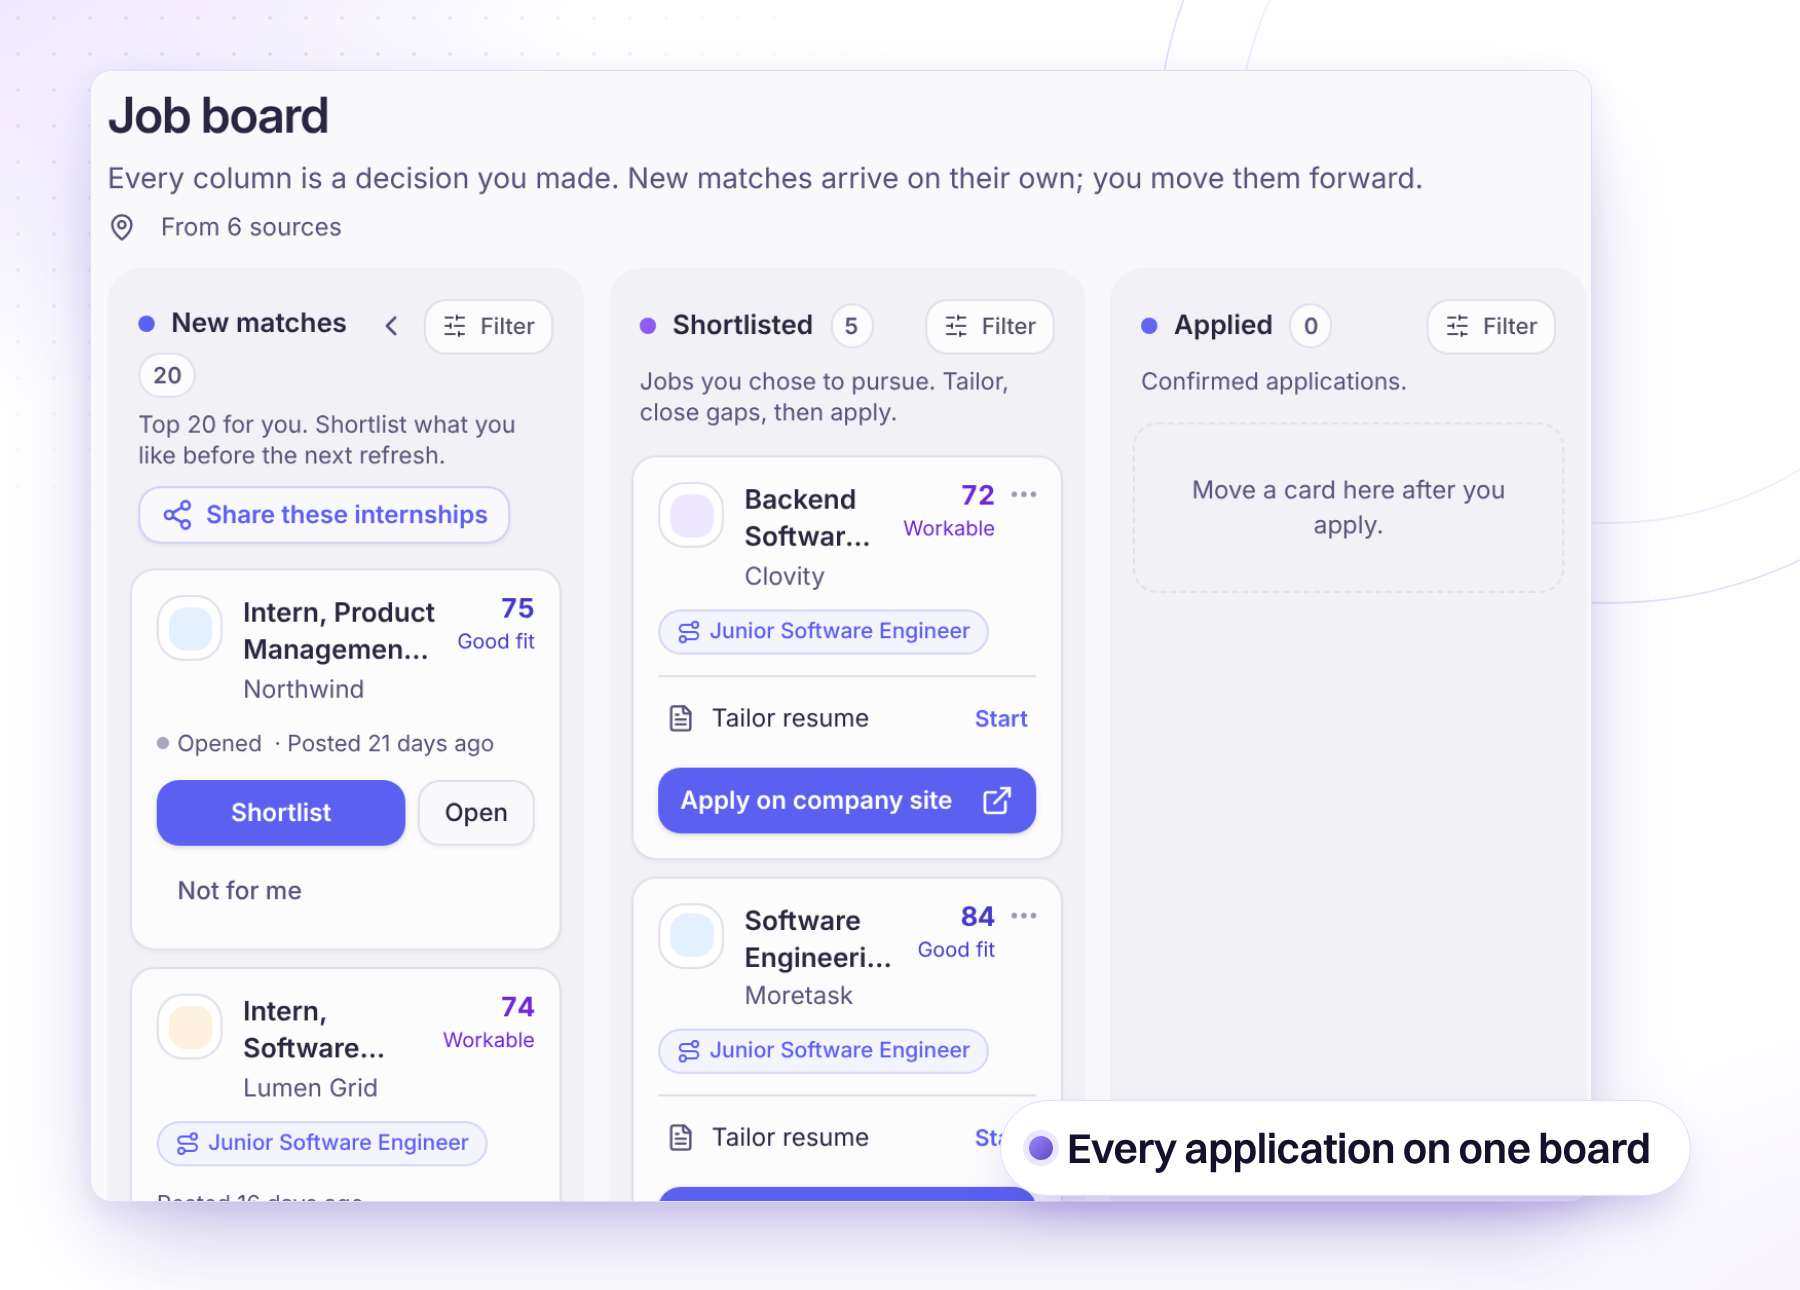
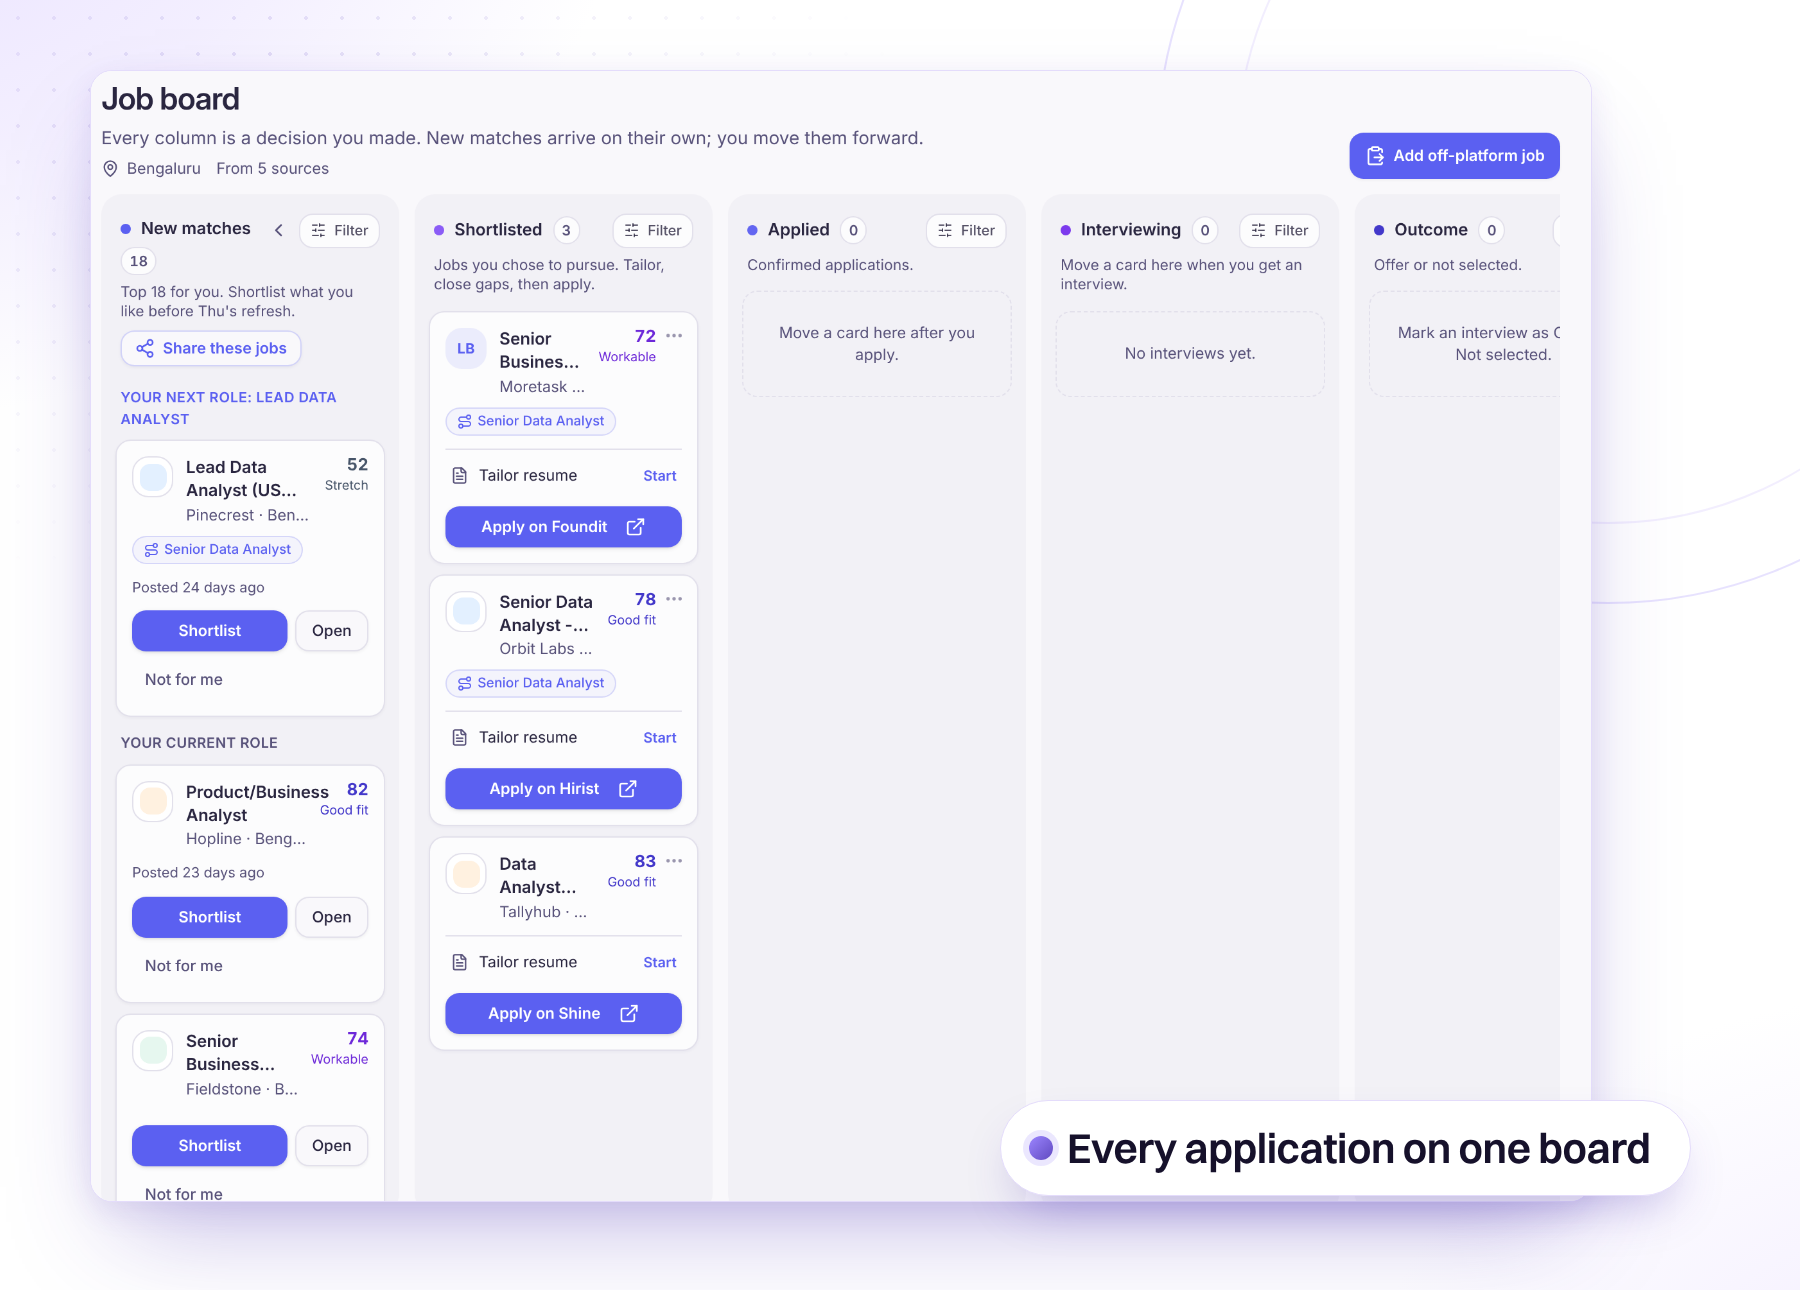
screenshots: a mix of goals across the site, no review card in the goal frames
- New-job and grow dashboards recaptured after answering the review question,
  so the Lumen Grid review card is gone from both
- /jobs, home jobs section, job match, tailoring, rewrite: experienced Data
  Analyst test user; career roadmap, benchmarking, learning sprints,
  progression: Senior Data Analyst growing in role
- Internship versions kept for Internshala compare and alternating role and
  in-demand skill pages (src/lib/shots.ts)
- Hero example, score loop example and /jobs headline no longer
  internship-only

Claude-Session: https://claude.ai/code/session_01GWged76NBtT9ubc9fg8THV

diff --git a/src/app/skills/[role]/page.tsx b/src/app/skills/[role]/page.tsx
@@ -18,6 +18,7 @@ import SiteFooter from "@/components/SiteFooter";
 import SiteHeader from "@/components/SiteHeader";
 import { campaignFor } from "@/lib/cta";
 import { LIVE_ROLES, getRole } from '@/lib/roles';
+import { matchShotFor } from '@/lib/shots';
 
 const SITE = 'https://www.skilldrift.ai';
 export const dynamicParams = false;
@@ -89,6 +90,7 @@ export default async function RoleSkillsPage({ params }: { params: Promise<{ rol
   const url = `${SITE}/skills/${r.slug}`;
   const campaign = campaignFor(`/skills/${r.slug}`);
   const n = r.groups.length;
+  const shot = matchShotFor(LIVE_ROLES.findIndex((x) => x.slug === r.slug));
 
   const ld = [
     { '@context': 'https://schema.org', '@type': 'WebPage', name: r.title, description: r.description, url, isPartOf: { '@type': 'WebSite', name: 'SkillDrift', url: SITE }, inLanguage: 'en' },
@@ -140,7 +142,7 @@ export default async function RoleSkillsPage({ params }: { params: Promise<{ rol
             See how a screening system reads your resume with the <Link href="/ats-score-checker" style={LINK}>ATS score checker</Link>, then turn the gaps into a plan with a <Link href="/career-roadmap" style={LINK}>career roadmap</Link>.
           </p>
                   <div style={{ marginTop: 44, maxWidth: 980, borderRadius: 22, overflow: 'hidden', border: '1px solid var(--line)', boxShadow: '0 30px 70px -20px rgba(76,52,180,.28)' }}>
-            <ShotPicture desktop="/assets/shots/job-match-analysis.png" mobile="/assets/shots/m-job-match-analysis.png" alt="A real job scored 75 out of 100 in SkillDrift, with the skills the person already has and the ones to close" sizes="(max-width: 760px) 100vw, 980px" />
+            <ShotPicture desktop={shot.desktop} mobile={shot.mobile} alt={shot.alt} sizes="(max-width: 760px) 100vw, 980px" />
           </div>
           <p style={{ marginTop: 18, fontSize: 15, color: 'var(--tx2)' }}>What you see after the upload: each {r.role} job scored out of 100, the skills you already show, and the ones to close, each with a roadmap.</p>
           <WhySkillDrift role={r.role} />

diff --git a/src/components/ProductShowcase.tsx b/src/components/ProductShowcase.tsx
@@ -24,18 +24,18 @@ const goals = [
   {
     tab: "A new job or field",
     intent: "Move to a new job",
-    copy: "Jobs in your field scored out of 100, the best one to act on today, and a plan that keeps your search moving. It already asks when your next review is, so it can help you there too.",
+    copy: "Jobs in your field scored out of 100, the best one to act on today, and the steps that get you there: tailor your resume to the job, check each requirement before you apply, practise the interview.",
     desktop: "/assets/shots/home-product-newjob.png",
     mobile: "/assets/shots/m-home-product-newjob.png",
-    alt: "The SkillDrift dashboard for a new job in your field: a Data Analyst role scored 70 out of 100 as the best move today, jobs in the current role scored out of 100, and the plan for today",
+    alt: "The SkillDrift dashboard for a new job in your field: a Data Analyst role scored 70 out of 100 as the best move today, more jobs in the same role scored out of 100, and the steps to tailor, check and practise",
   },
   {
     tab: "Grow where I am",
     intent: "Get promoted where I am",
-    copy: "Your strength in the role you have, the step you are on, and the one gap that moves your readiness most. Each roadmap shows how much it adds before you start, and your review is on the plan.",
+    copy: "Your strength in the role you have and the one gap that moves your readiness most, with what each roadmap adds before you start. Your next role is already on the plan for when you are ready.",
     desktop: "/assets/shots/home-product-grow.png",
     mobile: "/assets/shots/m-home-product-grow.png",
-    alt: "The SkillDrift dashboard for growing in your current role: 53% strength as a Senior Data Analyst, the top gap to close, and a plan that includes the next review",
+    alt: "The SkillDrift dashboard for growing in your current role: 53% strength as a Senior Data Analyst, the top gap that adds 13% readiness, and Lead Data Analyst as the next role on the plan",
   },
 ];
 

diff --git a/src/app/skills/in-demand/[slug]/page.tsx b/src/app/skills/in-demand/[slug]/page.tsx
@@ -18,6 +18,7 @@ import ShotPicture from "@/components/ShotPicture";
 import SiteFooter from "@/components/SiteFooter";
 import SiteHeader from "@/components/SiteHeader";
 import { campaignFor } from "@/lib/cta";
+import { matchShotFor } from '@/lib/shots';
 import { DEMAND_PAGES, SNAPSHOT_DATE, SNAPSHOT_LABEL, getDemandPage, sameIndustry, sameRole } from '@/lib/skillsDemand';
 
 const SITE = 'https://www.skilldrift.ai';
@@ -66,6 +67,7 @@ export default async function SkillsDemandPage({ params }: { params: Promise<{ s
   const url = `${SITE}/skills/in-demand/${p.slug}`;
   const campaign = campaignFor(`/skills/in-demand/${p.slug}`);
   const top = p.skills[0];
+  const shot = matchShotFor(DEMAND_PAGES.findIndex((x) => x.slug === p.slug));
   const others = sameRole(p).slice(0, 6);
   const neighbours = sameIndustry(p).slice(0, 6);
 
@@ -154,7 +156,7 @@ export default async function SkillsDemandPage({ params }: { params: Promise<{ s
             Which of these does your resume show? Upload it below. SkillDrift reads it against a real job, names the skills it does not show yet, and builds a plan to close them.
           </p>
           <div style={{ marginTop: 36, maxWidth: 980, borderRadius: 22, overflow: 'hidden', border: '1px solid var(--line)', boxShadow: '0 30px 70px -20px rgba(76,52,180,.28)' }}>
-            <ShotPicture desktop="/assets/shots/job-match-analysis.png" mobile="/assets/shots/m-job-match-analysis.png" alt="A real job scored 75 out of 100 in SkillDrift, with the skills the person already has and the ones to close" sizes="(max-width: 760px) 100vw, 980px" />
+            <ShotPicture desktop={shot.desktop} mobile={shot.mobile} alt={shot.alt} sizes="(max-width: 760px) 100vw, 980px" />
           </div>
           <WhySkillDrift />
         </Sect>

diff --git a/src/components/ScoreLoopSection.tsx b/src/components/ScoreLoopSection.tsx
@@ -24,8 +24,8 @@ const steps = [
 ];
 
 const jobs = [
-  { role: "Intern, Software Development", co: "Lumen Grid", from: 74, to: 81, req: ["9 of 14", "10 of 14"] },
-  { role: "Backend Developer, Graduate", co: "Northwind", from: 63, to: 70, req: ["6 of 11", "7 of 11"] },
+  { role: "Data Analyst", co: "Northwind", from: 70, to: 77, req: ["6 of 10", "7 of 10"] },
+  { role: "Business Analyst, Graduate", co: "Pinecrest", from: 63, to: 70, req: ["6 of 11", "7 of 11"] },
 ];
 
 function useTween(target: number, ms = 1000) {
@@ -187,7 +187,7 @@ export default function ScoreLoopSection() {
             <div className="sd-loop-card">
               <div className="sd-loop-kicker">LEARNING ROADMAP</div>
               <div style={{ display: "flex", alignItems: "center", justifyContent: "space-between", gap: 12, marginTop: 8 }}>
-                <div style={{ fontSize: 15.5, fontWeight: 600, color: "#14102b" }}>Django backend development</div>
+                <div style={{ fontSize: 15.5, fontWeight: 600, color: "#14102b" }}>Data pipelines on AWS</div>
                 <span className="sd-loop-badge" data-on={step >= 1 ? "true" : "false"}>
                   {step >= 1 ? "Completed" : "Lesson 9 of 11"}
                 </span>
@@ -202,7 +202,7 @@ export default function ScoreLoopSection() {
               <div style={{ marginTop: 10, fontSize: 13.5, color: "#6b6880" }}>SQL for data work, SkillDrift, Aug 2026</div>
               <div className="sd-loop-newline" data-on={step >= 2 ? "true" : "false"}>
                 <Check size={14} strokeWidth={2.4} />
-                Django backend development, SkillDrift, Oct 2026
+                Data pipelines on AWS, SkillDrift, Oct 2026
               </div>
             </div>
 

diff --git a/src/lib/shots.ts b/src/lib/shots.ts
@@ -1,0 +1,22 @@
+// Product screenshots used on the templated pages (roles, in-demand skills,
+// ATS checker). Two real job analyses from test users with neutral names: an
+// experienced Data Analyst role and an internship. Pages alternate between them
+// so the site shows a mix of goals, not only internships.
+export type MatchShot = { desktop: string; mobile: string; alt: string };
+
+export const MATCH_EXPERIENCED: MatchShot = {
+  desktop: '/assets/shots/job-match-analysis.png',
+  mobile: '/assets/shots/m-job-match-analysis.png',
+  alt: 'A real Data Analyst job for someone with experience, scored 70 out of 100 in SkillDrift, with the six skills the person already has and the four to close',
+};
+
+export const MATCH_INTERNSHIP: MatchShot = {
+  desktop: '/assets/shots/job-match-analysis-intern.png',
+  mobile: '/assets/shots/m-job-match-analysis-intern.png',
+  alt: 'A real internship scored 75 out of 100 in SkillDrift, with the five skills the person already has and the three to close',
+};
+
+/** Alternates by position so neighbouring pages show different goals. */
+export function matchShotFor(index: number): MatchShot {
+  return index % 2 === 0 ? MATCH_EXPERIENCED : MATCH_INTERNSHIP;
+}

diff --git a/src/app/ats-score-checker/page.tsx b/src/app/ats-score-checker/page.tsx
@@ -224,7 +224,7 @@ export default function AtsScoreCheckerPage() {
             A checker gives you a score and stops. In SkillDrift the score is the first step: your matched jobs and internships are scored out of 100, every gap is named and turns into learning, and finishing it moves your scores. Your resume updates itself as you go.
           </p>
           <div style={{ marginTop: 36, maxWidth: 980, borderRadius: 22, overflow: "hidden", border: "1px solid var(--line)", boxShadow: "0 30px 70px -20px rgba(76,52,180,.28)" }}>
-            <ShotPicture desktop="/assets/shots/job-match-analysis.png" mobile="/assets/shots/m-job-match-analysis.png" alt="A real job scored 75 out of 100 in SkillDrift, with the skills the person already has and the ones to close" sizes="(max-width: 760px) 100vw, 980px" />
+            <ShotPicture desktop="/assets/shots/job-match-analysis.png" mobile="/assets/shots/m-job-match-analysis.png" alt="A real Data Analyst job for someone with experience, scored 70 out of 100 in SkillDrift, with the six skills the person already has and the four to close" sizes="(max-width: 760px) 100vw, 980px" />
           </div>
         </Section>
 

diff --git a/src/components/HeroAndResult.tsx b/src/components/HeroAndResult.tsx
@@ -199,13 +199,13 @@ export default function HeroAndResult() {
                   href="/job-match"
                   section="hero"
                   label="example_result"
-                  ariaLabel="Example result: Data Analyst Intern, 79 out of 100. See how job scores work"
+                  ariaLabel="Example result: Data Analyst, 77 out of 100. See how job scores work"
                   className="sd-hero-peek"
                 >
-                  <ScoreRing value={79} size={46} stroke={4.5} transition={false} />
+                  <ScoreRing value={77} size={46} stroke={4.5} transition={false} />
                   <div>
                     <div style={{ fontSize: 10.5, letterSpacing: "0.12em", fontWeight: 600, color: "var(--ac)" }}>
-                      EXAMPLE &middot; DATA ANALYST INTERN
+                      EXAMPLE &middot; DATA ANALYST
                     </div>
                     <div style={{ marginTop: 3, display: "flex", alignItems: "center", gap: 8, fontSize: 13, color: "var(--tx2)" }}>
                       Good fit

diff --git a/src/components/JobsSection.tsx b/src/components/JobsSection.tsx
@@ -26,7 +26,7 @@ export default function JobsSection() {
           <ShotPicture
             desktop="/assets/shots/jobs-board.png"
             mobile="/assets/shots/m-jobs-board.png"
-            alt="The SkillDrift job board: new matches scored out of 100, shortlisted jobs with a tailored resume, and applied jobs, each with an apply link on the company site"
+            alt="The SkillDrift job board for a Data Analyst: new matches scored out of 100, the next role and the current role, and a shortlist where each job has a tailor step and an apply link"
             sizes="(max-width: 760px) 100vw, 1400px"
           />
         </div>
